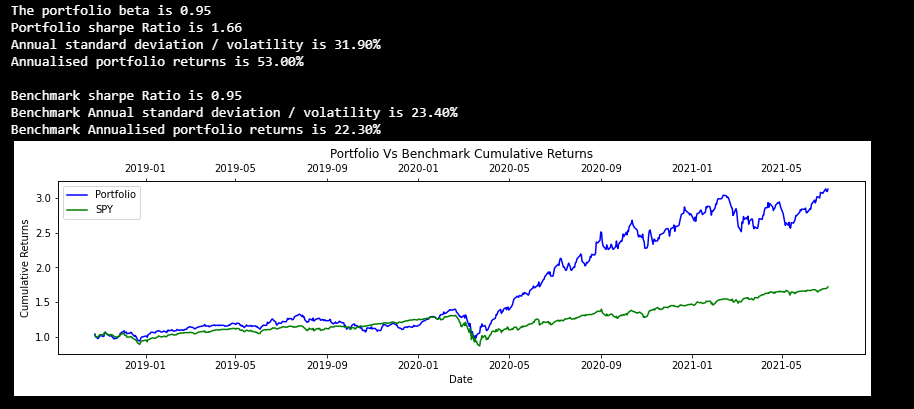
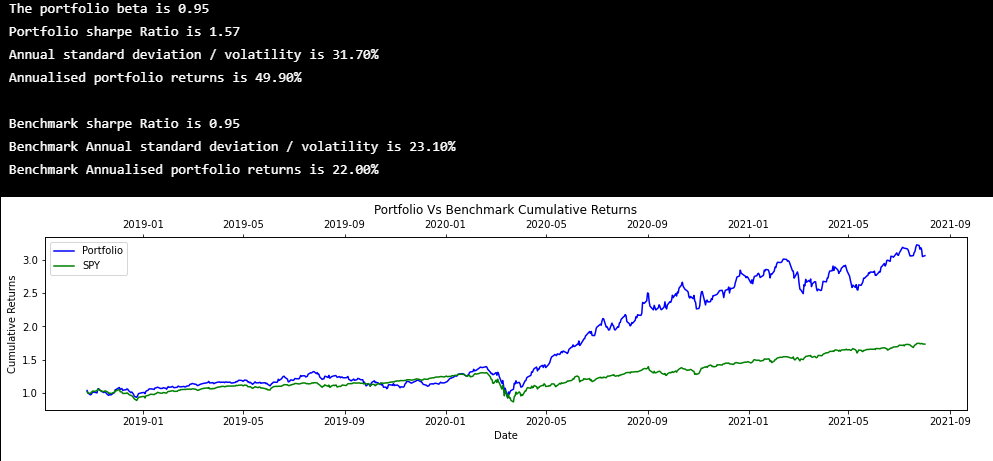
updated graphs to 2nd August

Changed region(s): [[0.0, 0.2054, 1.0, 1.0], [0.0, 0.0, 0.4289, 0.176]]

diff --git a/index.html b/index.html
@@ -470,10 +470,10 @@
         </amp-img>  
         <br>
         <br>
-        <h3>US Equities core portfolio VS SPY ~ 2018/10/23 - 2021/07/05</h3>
-        <amp-img src="images\port_vs_spy_5.png" alt="portfolio VS SPY // 2018/10/23 - 2021/07/05" width="893" height="407" layout="responsive" noloading>
+        <h3>US Equities core portfolio VS SPY ~ 2018/10/25 - 2021/08/02</h3>
+        <amp-img src="images\port_vs_spy_5.png" alt="portfolio VS SPY // 2018/10/25 - 2021/08/02" width="893" height="407" layout="responsive" noloading>
         </amp-img>  
-        <h3>US Equities core portfolio VS SPY ~ 2010/01/01 - 2021/07/06</h3>
+        <h3>US Equities core portfolio VS SPY ~ 2010/01/01 - 2021/08/02</h3>
         <amp-img src="images\port_vs_spy_6.png" alt="portfolio VS SPY // 2010/01/01 - 2021/07/06" width="884" height="406" layout="responsive" noloading>
         </amp-img>
         <h3>US Equities core portfolio Efficient Frontier 10,000 simulations ~ 2018/10/23 - 2020/08/01</h3>
